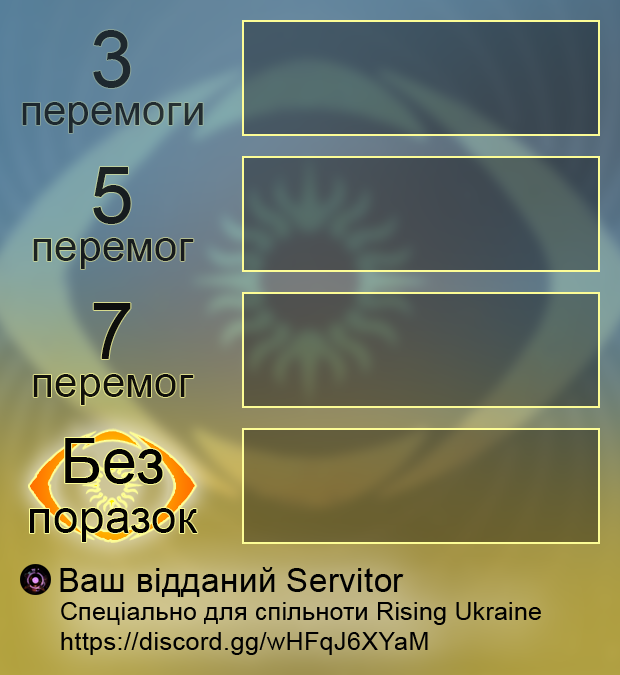
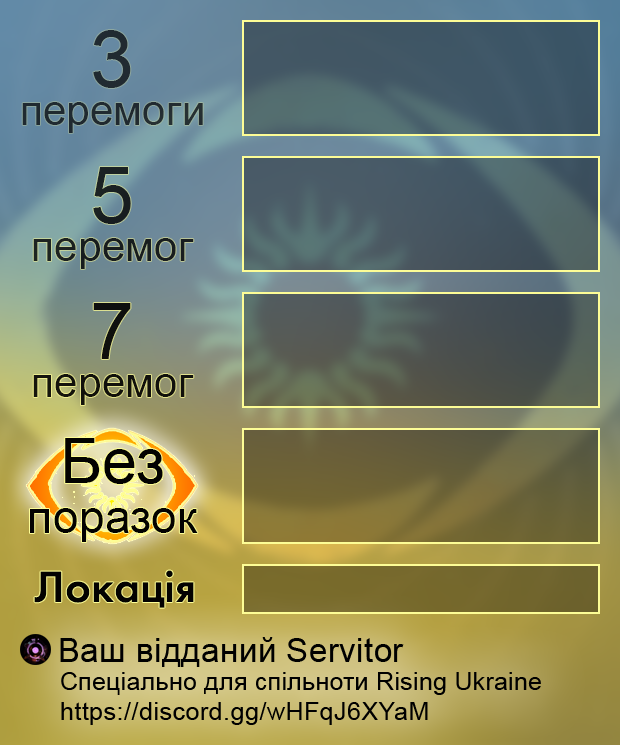
Get Xur and Osiris location

diff --git a/Extensions/TrialsOfOsirisParser.cs b/Extensions/TrialsOfOsirisParser.cs
@@ -17,24 +17,22 @@ namespace Extensions
 
             using (var g = Graphics.FromImage(image))
             {
-                HtmlWeb web = new HtmlWeb();
+                var htmlDoc = new HtmlWeb().Load("https://www.light.gg/");
 
-                var htmlDoc = web.Load("https://www.light.gg/");
-
-                var trialsBillboard = htmlDoc.DocumentNode.SelectSingleNode("//*[@id=\"trials-billboard\"]/div[2]/div[2]");
-
-                int Xi = 252, Yi = 30;
-                int intervalX = 121, intervalY = 136;
+                var trialsBillboard = htmlDoc.DocumentNode.SelectSingleNode("//*[@id=\"trials-billboard\"]/div[2]");
 
                 if (trialsBillboard is not null)
                 {
+                    int Xi = 252, Yi = 30;
+                    int intervalX = 121, intervalY = 136;
+
                     for (int i = 1; i <= 4; i++)
                     {
                         int x = Xi, y = Yi;
 
                         for (int j = 1; j <= 3; j++)
                         {
-                            var node = trialsBillboard.SelectSingleNode($"span[{i}]/a[{j}]/img[@src]");
+                            var node = trialsBillboard.SelectSingleNode($"div[2]/span[{i}]/a[{j}]/img[@src]");
 
                             if (node is null)
                                 break;
@@ -49,6 +47,16 @@ namespace Extensions
 
                         Yi += intervalY;
                     }
+
+                    int Xt = 252, Yt = 574;
+
+                    Brush brush = new SolidBrush(Color.White);
+                    Font locationFont = new Font("Arial", 20, FontStyle.Bold);
+
+                    var location = trialsBillboard.SelectSingleNode("div[1]/span/text()");
+                    var locationName = location is null ? "Невизначено" : location.InnerText.Trim();
+
+                    g.DrawString(locationName, locationFont, brush, Xt, Yt);
                 }
             }
 

diff --git a/Extensions/ExtensionMethods.cs b/Extensions/ExtensionMethods.cs
@@ -1,5 +1,6 @@
 using BungieNetApi;
 using Flurl.Http;
+using HtmlAgilityPack;
 using System.Drawing;
 using System.Drawing.Imaging;
 using System.IO;
@@ -15,7 +16,7 @@ namespace Extensions
             return await apiClient.GetActivityDetailsAsync(activity.ActivityID.ToString());
         }
 
-        public static async Task<Stream> GetXurInventoryAsync(this BungieNetApiClient apiClient)
+        public static async Task<Stream> GetXurInventoryAsync(this BungieNetApiClient apiClient, bool getLocation = false)
         {
             var items = await apiClient.GetXurItemsAsync();
 
@@ -50,6 +51,23 @@ namespace Extensions
                     Yt1 += interval;
                     Yt2 += interval;
                 }
+
+                int Xt = 252, Yt = 574;
+
+                Font locationFont = new Font("Arial", 20, FontStyle.Bold);
+
+                HtmlNode location = null;
+
+                if (getLocation)
+                {
+                    var htmlDoc = new HtmlWeb().Load("https://xur.wiki/");
+
+                    location = htmlDoc.DocumentNode.SelectSingleNode("//*[@id=\"home-body\"]/div[1]/div/div/div[1]/div/div/h1");
+                }
+
+                var locationName = location is null ? "Невизначено" : location.InnerText.Trim();
+
+                g.DrawString(locationName, locationFont, brush, Xt, Yt);
             }
 
             var ms = new MemoryStream();

diff --git a/ServitorDiscordBot/ScheduledMessages.cs b/ServitorDiscordBot/ScheduledMessages.cs
@@ -17,7 +17,7 @@ namespace ServitorDiscordBot
 
             var apiCient = scope.ServiceProvider.GetRequiredService<BungieNetApiClient>();
 
-            using var inventory = await apiCient.GetXurInventoryAsync();
+            using var inventory = await apiCient.GetXurInventoryAsync(message is not null);
 
             IMessageChannel channel;
 
